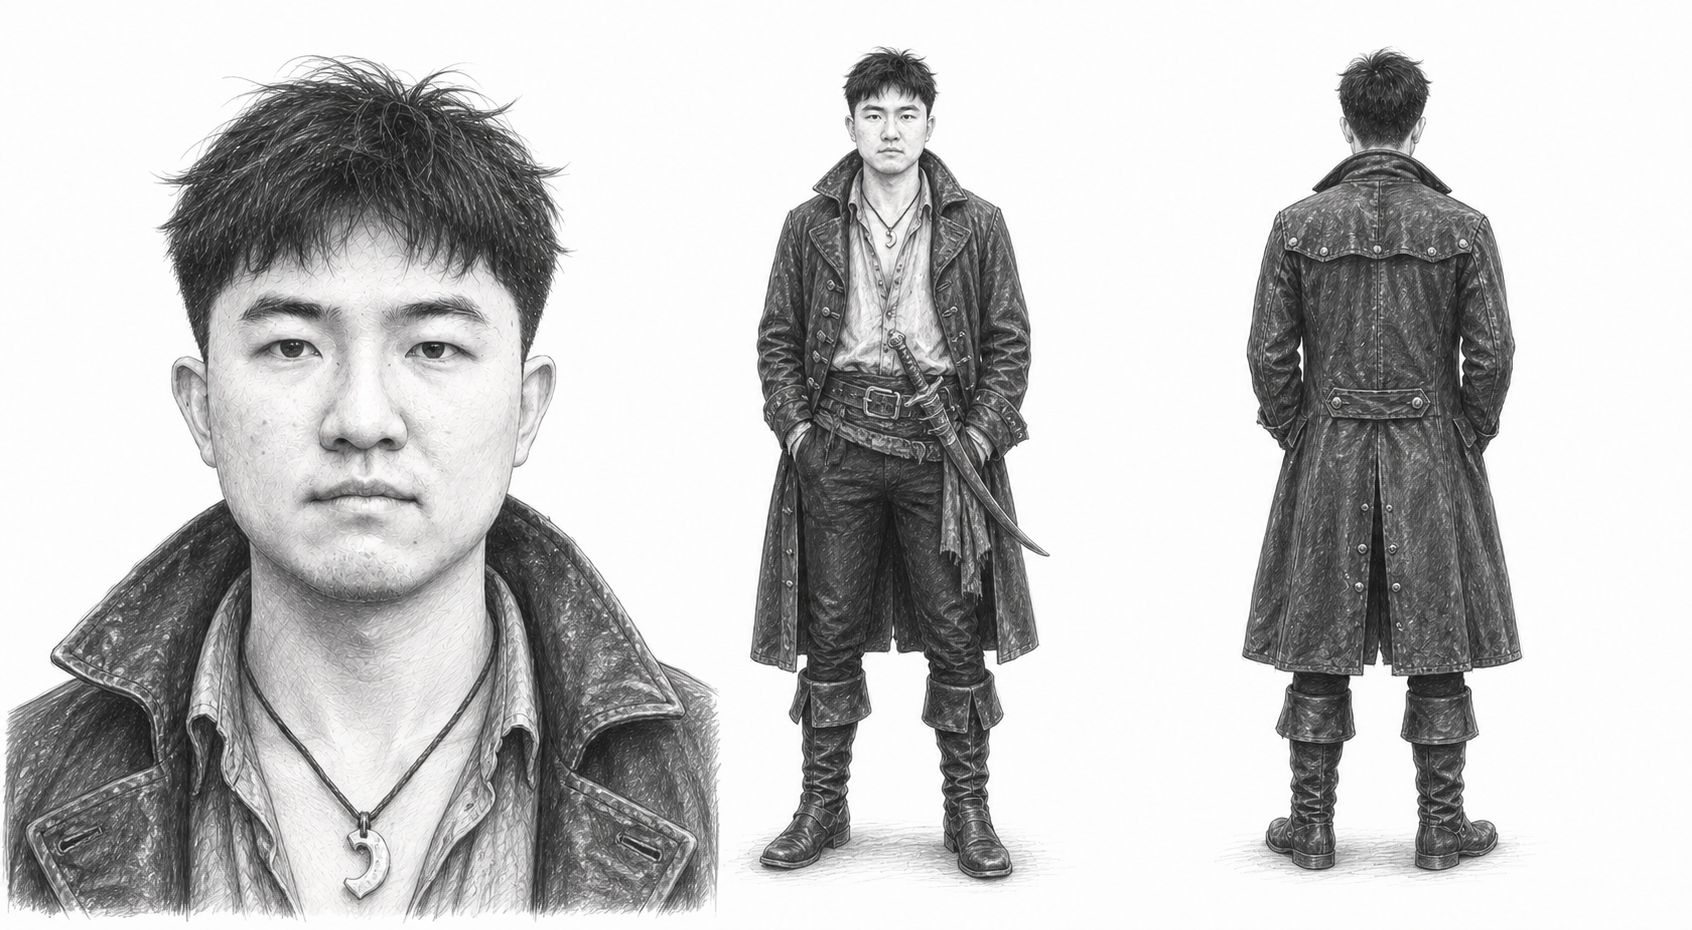
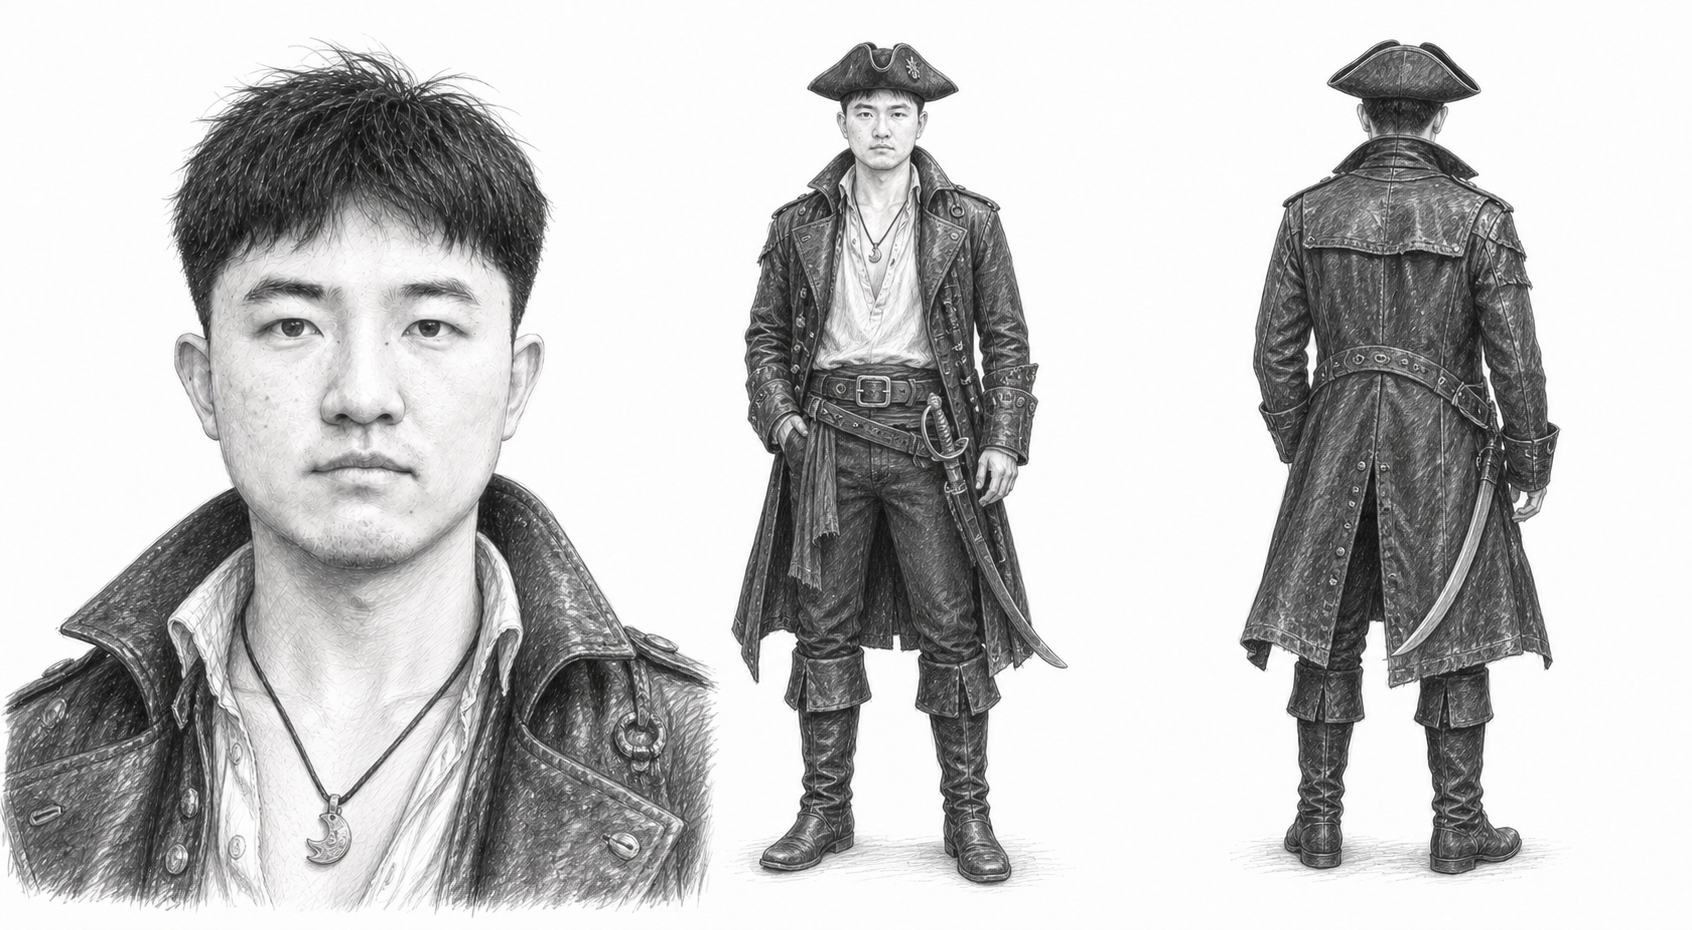
十世正式人设(身份重做版)

Changed region(s): [[0.0, 0.0312, 0.6454, 0.9978], [0.7376, 0.0312, 0.922, 0.9667]]

diff --git a/同船渡/人设/README.md b/同船渡/人设/README.md
@@ -1,46 +1,39 @@
 # 百年修得同船渡 · 人设图索引
 
-十世,每世一对(男主 182cm 结实体型 / 女主 170cm 纤细)。每张是**黑白铅笔三栏设定稿**:左=面部特写,中=全身正面,右=全身背面。同一男主、同一女主贯穿十世,只换服装发型。
+十世,**同一对男女主贯穿始终**,只换身份服装。每张是**黑白铅笔三栏设定稿**:左=面部特写,中=全身正面,右=全身背面。
 
 ## 用法(给出视频的 agent)
 
-- 每镜以对应世的 `男主.png` / `女主.png` 当**参考图**,prompt 里写「只借用长相五官,服饰照人设图」。
+- 每镜以对应世的 `男主.png` / `女主.png` 当**参考图**,prompt 写「只借用长相五官,服饰/身份道具照人设图」。
 - 人设是**黑白铅笔稿**;真人视频要写实时,按 Seedance 规则「参考图是铅笔素描画稿,还原成写实照片风格」。CG/幻想世(神话/仙侠/海盗/蒸汽/赛博/星际)可直接当写实参考,不受真人检测限制。
-- **前九世不给正脸**(脚本制作要点):镜头只给背影/侧影/手/半张脸。正脸留到第10世镜35。人设图的正脸只用于锁五官,不代表镜头要给正脸。
+- **前九世不给正脸**(脚本制作要点):镜头只给背影/侧影/手/半张脸,正脸留到第10世。人设图的正脸只用于锁五官。
 
-## 眼镜规则(重要)
+## 本片戏核:阶层/立场差
 
-男主原型戴方形近视镜。**神话~民国(1-7世)一律不戴眼镜**,人设图已按此出。赛博(8)、星际(9)可戴目镜/HUD。当下(10)戴回近视镜。
+每世男女主的**阶层或立场差**要一眼看出,这是戏核。不是穿对朝代衣服就行——两人**不能画成同一阶层同一气质**。见下表「阶层差」列。
 
-## 玉玦挂法(逐世不同,是彩蛋线)
+## 铁律
 
-| 世 | 挂法 |
-|---|---|
-| 神话 | 皮绳系着贴胸口/揣怀里 |
-| 仙侠 | 系腰间丝绦当腰佩 |
-| 武侠 | 挂剑柄/腰侧 |
-| 宋 | 系腰带垂下(靠这个才掉得合理) |
-| 海盗 | 颈绳串着挂胸前 |
-| 蒸汽 | 嵌黄铜怀表壳,表链垂胸前 |
-| 民国 | 揣长衫内袋 |
-| 赛博 | 嵌手背屏边框(女主挂夹克拉链/颈环) |
-| 星际 | 挂飞行服拉链头 |
-| 当下 | 男主手机壳夹着 / 女主包链挂着 |
+- **脸严格照原型,一眼是同一个人**。男主:脸偏方正、下颌线清楚、眼睛不大但沉静、鼻梁直、嘴唇偏薄。女主:鹅蛋脸略圆润、大眼双眼皮明显、鼻梁直挺鼻头小巧、嘴唇偏薄清秀。⛔ 不许美化/瘦脸/放大眼睛/网红脸/动漫化。
+- **女主辨识线**:黑长直中分 + 空气刘海,尽量保住(束发世可挽起但保留刘海)。
+- **眼镜**:男主原型戴方形近视镜。**神话~民国(1-7世)不戴**;赛博(8)半框数据目镜、星际(9)飞行目镜可戴(是额外装备,非日常近视镜);当下(10)戴回方形近视镜。
+- **玉玦彩蛋线**:男主随身带半圆玉玦(要画清是「断了一半的圆环」),挂法逐世不同(见末列)。女主那半贴身收着,不必每张显露。
 
-## 十世造型速查
+## 十世清单
 
-| 世 | 目录 | 男主 | 女主 | 画风归类 |
-|---|---|---|---|---|
-| 1 神话 | `01_神话` | 粗麻兽皮无袖短衣,散发束低髻,赤足 | 粗麻长裙披兽皮,骨贝项饰 | 半写实CG |
-| 2 仙侠 | `02_仙侠` | 白广袖仙袍,束发玉冠 | 齐胸襦裙广袖,高发髻飘带 | CG幻想 |
-| 3 武侠 | `03_武侠` | 深色劲装束发布带,配长剑 | 窄袖劲装半束发,长裤布靴 | 写实偏暗 |
-| 4 宋市井 | `04_宋市井` | 交领长衫幞头(写实) | 襦裙披帛盘发(写实) | **写实(真实之锚)** |
-| 5 海盗 | `05_海盗` | 皮革长外套三角帽弯刀 | 皮质短外套长裤高筒靴马尾 | CG幻想 |
-| 6 蒸汽 | `06_蒸汽` | 维多利亚马甲短外套,额上黄铜护目镜(眼睛不戴近视镜) | 束腰上衣短外套长裙,机械护臂 | CG幻想 |
-| 7 民国 | `07_民国` | 深色长衫短发(写实) | 蓝布旗袍/学生装短发(写实) | **写实(真实之锚)** |
-| 8 赛博 | `08_赛博` | 机能雨衣,义体线条,半框数据目镜 | 短机能夹克,脸侧义体发光纹,耳后数据接口 | CG幻想 |
-| 9 星际 | `09_星际` | 宇航飞行服硬质护甲,未来目镜 | 宇航飞行服护甲,利落发髻 | CG幻想 |
-| 10 当下 | `10_当下` | 现代休闲装,戴方形近视镜 | 现代装(格纹连衣裙),黑长直中分空气刘海 | **写实** |
+| 世 | 目录 | 男主(身份·符号) | 女主(身份·符号) | 阶层差 | 玉玦挂法 |
+|---|---|---|---|---|---|
+| 1 神话 | `01_神话` | 驯兽牧人·粗麻兽皮短衣、散发低髻、驯兽长杖 | 祭司之女·素净祭袍、骨贝头饰、骨制祭器 | 野性牧人 vs 洁净神职 | 皮绳系胸口 |
+| 2 仙侠 | `02_仙侠` | 天骄弟子·华美白广袖仙袍、玉冠 | 扫阶药童·粗布杂役衣、背药篓/竹扫帚 | 云端贵公子 vs 打杂丫头 | 腰间丝绦当腰佩 |
+| 3 大漠 | `03_大漠` | 护商镖师·沙土色窄袖袍、缠头布、斗篷、腰佩长刀 | 和亲贵女·织锦襦裙、帷帽纱笠、珠钗 | 走沙路糙汉 vs 金枝玉叶 | 腰带右侧 |
+| 4 江南 | `04_江南` | 寒门书生·半旧青衫、竹书箧、方巾 | 大户闺秀·锦缎襦裙、团扇、珠钗披帛 | 清苦寒门 vs 富贵娇养 | 腰带垂下 |
+| 5 海盗 | `05_海盗` | 海盗船长·皮革长外套、三角帽、弯刀 | 敌船女船长·皮质战衣、佩刀/燧发枪、女王气场 | 势均力敌的两个强者(敌对两船) | 颈绳挂胸前 |
+| 6 蒸汽 | `06_蒸汽` | 飞艇机械师·油污工装、皮围裙、扳手、额上黄铜护目镜 | 发条名媛·蒸汽裙装、阳伞、蕾丝手套 | 油污工人 vs 优雅名媛 | 嵌黄铜怀表壳 |
+| 7 民国 | `07_民国` | 出征军官·军官制服、军帽、武装带、行囊 | 战地护士·护士制服、白帽、红十字臂章、药箱 | 军人 vs 医护(战时一对) | 揣制服内袋 |
+| 8 赛博 | `08_赛博` | 逃亡黑客·兜帽机能夹克、手腕数据终端、草根警觉 | 企业特工·挺括制服风衣、脸侧义体纹、追缉锐利 | 被追草根 vs 追缉精英(立场对立) | 嵌手背屏边框 |
+| 9 星际 | `09_星际` | 舰队飞行员长机·飞行服护甲、舰队徽章、头盔挟腋下 | 同舰队僚机·**同款飞行服、同一枚徽章**、利落发髻 | **同队战友**(不是对立也不是路人) | 挂飞行服拉链头 |
+| 10 当下 | `10_当下` | 普通上班族·休闲夹克、方形近视镜、双肩包(普通到无标识) | 普通女孩·日常连衣裙/针织、黑长直中分空气刘海、帆布包 | 都是最普通的人(十世轮回落回平凡) | 手机壳夹着 |
 
-## 女主辨识关键
-除星际(必须束发)外,女主保留「黑长直中分 + 空气刘海」——这是她的主要辨识线索,换装时尽量保住。
+## 画风归类(出视频参考)
+
+写实之锚:**江南、民国、当下**(走素描还原写实)。CG/幻想:神话、仙侠、大漠、海盗、蒸汽、赛博、星际(可直接当写实参考,不受真人检测限制)。
